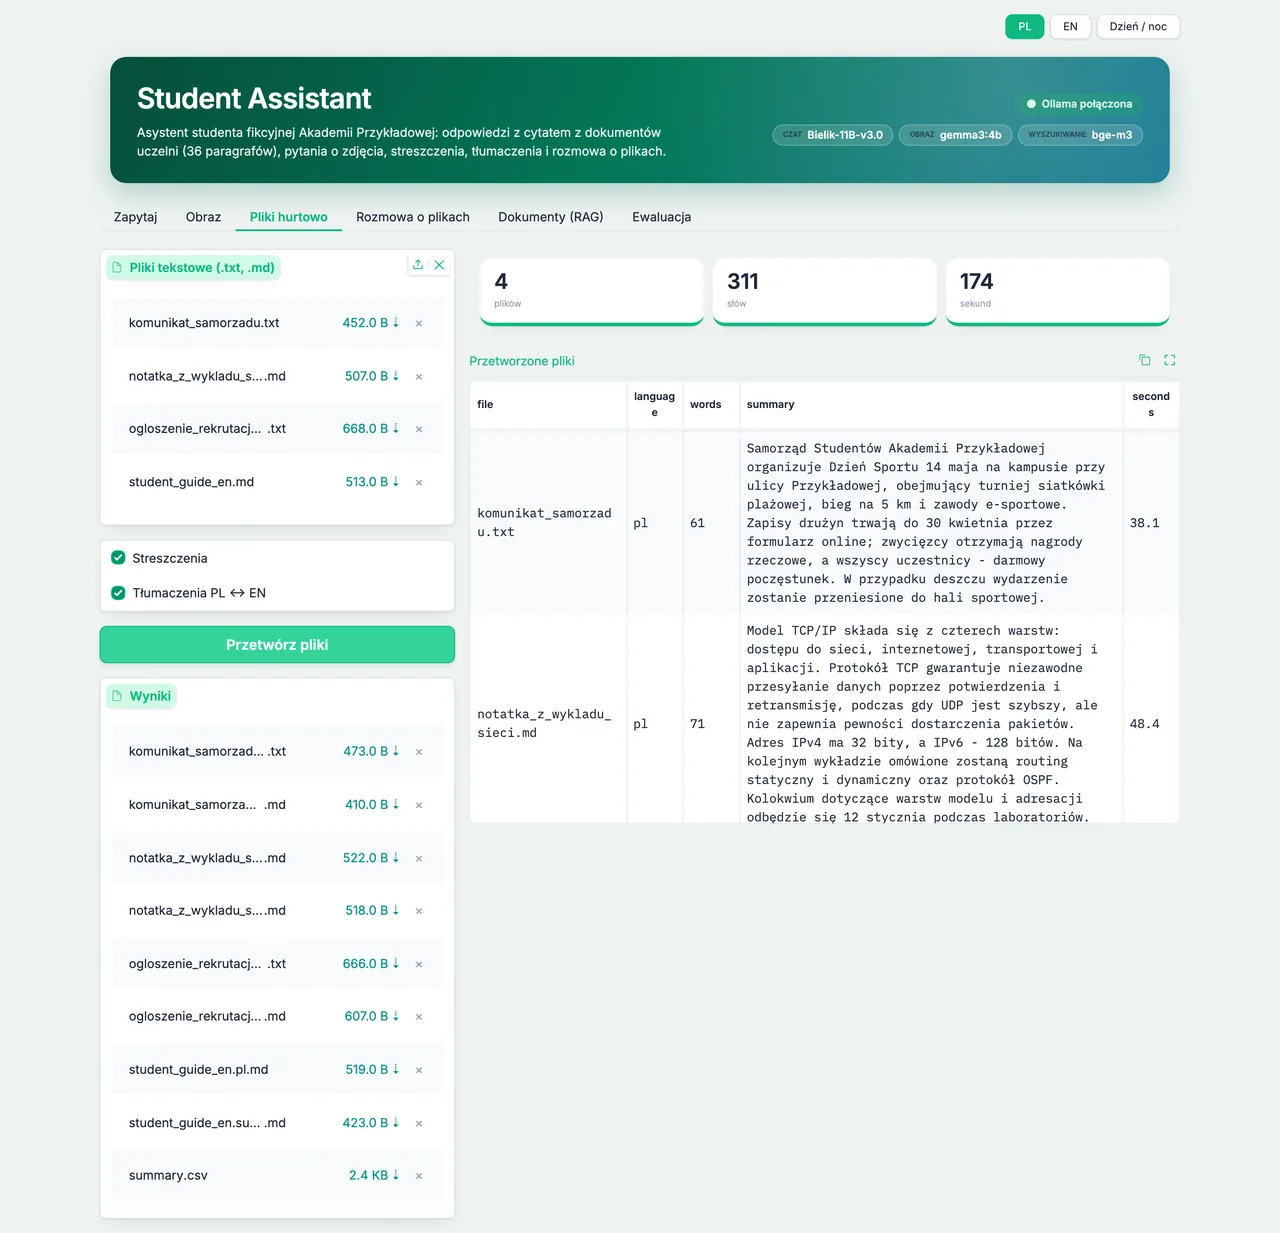
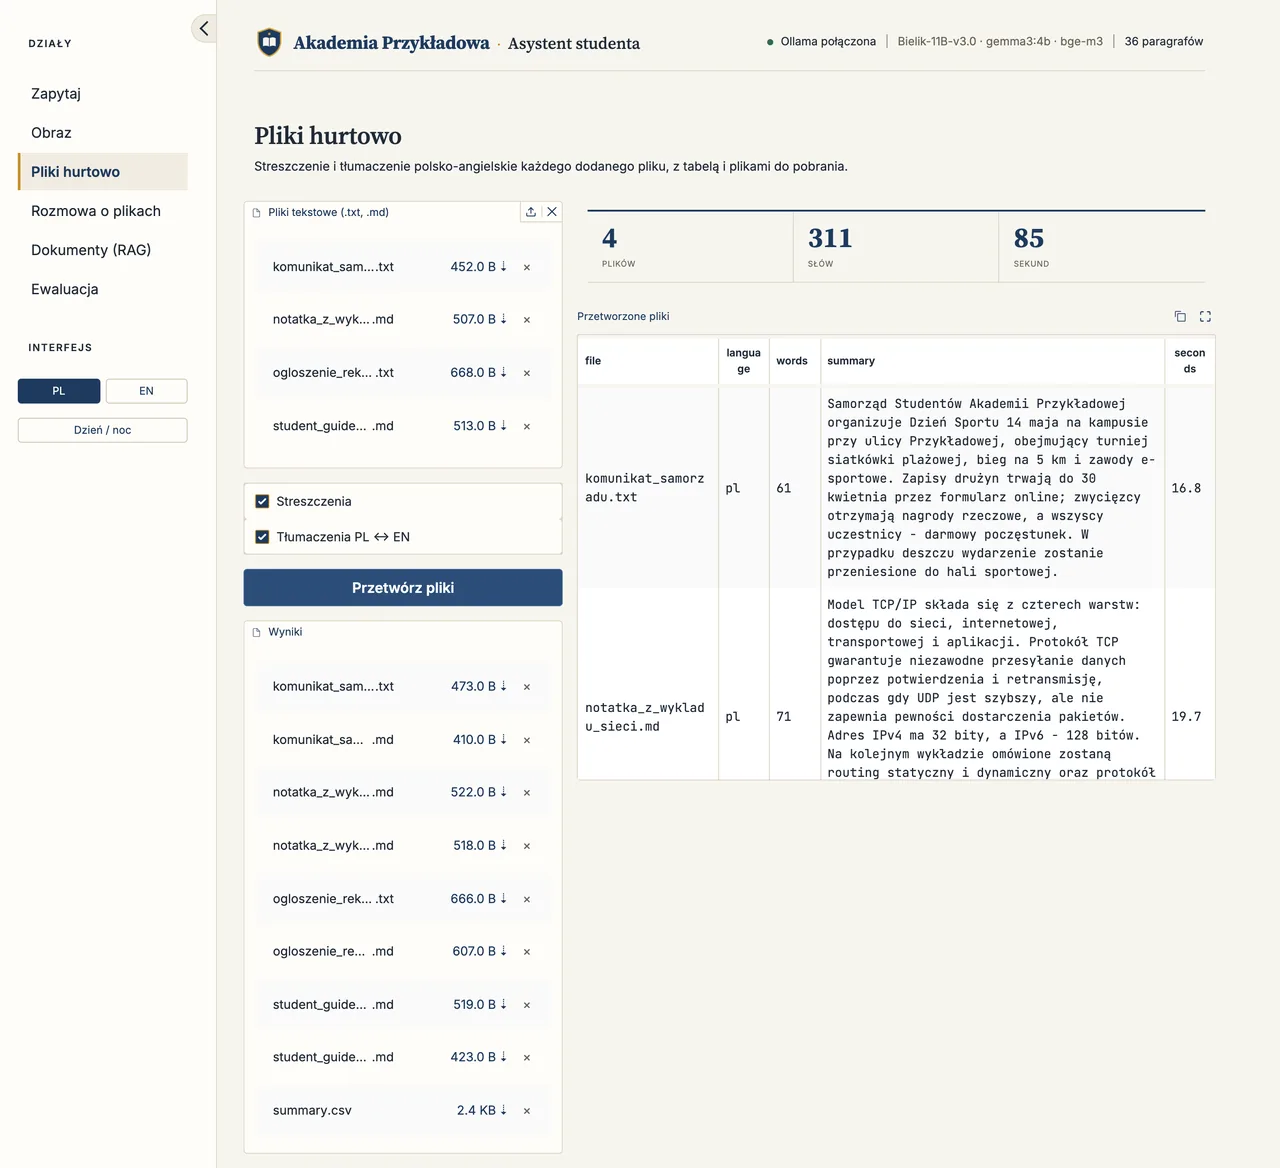
feat(projects): new screenshots of the redesigned Student Assistant LLM and Marketing Creator LLM

diff --git a/projects/marketing-creator-llm/index.html b/projects/marketing-creator-llm/index.html
@@ -119,32 +119,32 @@
         <ul class="gallery">
           <li>
             <a class="gallery__link" href="/src/assets/img/work/marketing-creator-llm/shot-1.webp" data-index="0">
-              <img src="/src/assets/img/work/marketing-creator-llm/shot-1.webp" alt="Marketing Creator LLM, screenshot 1" width="1280" height="997" loading="lazy" decoding="async" />
+              <img src="/src/assets/img/work/marketing-creator-llm/shot-1.webp" alt="Marketing Creator LLM, screenshot 1" width="1280" height="1202" loading="lazy" decoding="async" />
             </a>
           </li>
           <li>
             <a class="gallery__link" href="/src/assets/img/work/marketing-creator-llm/shot-2.webp" data-index="1">
-              <img src="/src/assets/img/work/marketing-creator-llm/shot-2.webp" alt="Marketing Creator LLM, screenshot 2" width="1280" height="955" loading="lazy" decoding="async" />
+              <img src="/src/assets/img/work/marketing-creator-llm/shot-2.webp" alt="Marketing Creator LLM, screenshot 2" width="1280" height="1132" loading="lazy" decoding="async" />
             </a>
           </li>
           <li>
             <a class="gallery__link" href="/src/assets/img/work/marketing-creator-llm/shot-3.webp" data-index="2">
-              <img src="/src/assets/img/work/marketing-creator-llm/shot-3.webp" alt="Marketing Creator LLM, screenshot 3" width="1280" height="1516" loading="lazy" decoding="async" />
+              <img src="/src/assets/img/work/marketing-creator-llm/shot-3.webp" alt="Marketing Creator LLM, screenshot 3" width="1280" height="1578" loading="lazy" decoding="async" />
             </a>
           </li>
           <li>
             <a class="gallery__link" href="/src/assets/img/work/marketing-creator-llm/shot-4.webp" data-index="3">
-              <img src="/src/assets/img/work/marketing-creator-llm/shot-4.webp" alt="Marketing Creator LLM, screenshot 4" width="1280" height="1021" loading="lazy" decoding="async" />
+              <img src="/src/assets/img/work/marketing-creator-llm/shot-4.webp" alt="Marketing Creator LLM, screenshot 4" width="1280" height="1028" loading="lazy" decoding="async" />
             </a>
           </li>
           <li>
             <a class="gallery__link" href="/src/assets/img/work/marketing-creator-llm/shot-5.webp" data-index="4">
-              <img src="/src/assets/img/work/marketing-creator-llm/shot-5.webp" alt="Marketing Creator LLM, screenshot 5" width="1280" height="1276" loading="lazy" decoding="async" />
+              <img src="/src/assets/img/work/marketing-creator-llm/shot-5.webp" alt="Marketing Creator LLM, screenshot 5" width="1280" height="1351" loading="lazy" decoding="async" />
             </a>
           </li>
           <li>
             <a class="gallery__link" href="/src/assets/img/work/marketing-creator-llm/shot-6.webp" data-index="5">
-              <img src="/src/assets/img/work/marketing-creator-llm/shot-6.webp" alt="Marketing Creator LLM, screenshot 6" width="1280" height="800" loading="lazy" decoding="async" />
+              <img src="/src/assets/img/work/marketing-creator-llm/shot-6.webp" alt="Marketing Creator LLM, screenshot 6" width="1280" height="1202" loading="lazy" decoding="async" />
             </a>
           </li>
         </ul>

diff --git a/projects/student-assistant-llm/index.html b/projects/student-assistant-llm/index.html
@@ -119,7 +119,7 @@
         <ul class="gallery">
           <li>
             <a class="gallery__link" href="/src/assets/img/work/student-assistant-llm/shot-1.webp" data-index="0">
-              <img src="/src/assets/img/work/student-assistant-llm/shot-1.webp" alt="Student Assistant LLM, screenshot 1" width="1280" height="800" loading="lazy" decoding="async" />
+              <img src="/src/assets/img/work/student-assistant-llm/shot-1.webp" alt="Student Assistant LLM, screenshot 1" width="1280" height="1051" loading="lazy" decoding="async" />
             </a>
           </li>
           <li>
@@ -129,12 +129,12 @@
           </li>
           <li>
             <a class="gallery__link" href="/src/assets/img/work/student-assistant-llm/shot-3.webp" data-index="2">
-              <img src="/src/assets/img/work/student-assistant-llm/shot-3.webp" alt="Student Assistant LLM, screenshot 3" width="1280" height="1233" loading="lazy" decoding="async" />
+              <img src="/src/assets/img/work/student-assistant-llm/shot-3.webp" alt="Student Assistant LLM, screenshot 3" width="1280" height="1168" loading="lazy" decoding="async" />
             </a>
           </li>
           <li>
             <a class="gallery__link" href="/src/assets/img/work/student-assistant-llm/shot-4.webp" data-index="3">
-              <img src="/src/assets/img/work/student-assistant-llm/shot-4.webp" alt="Student Assistant LLM, screenshot 4" width="1280" height="932" loading="lazy" decoding="async" />
+              <img src="/src/assets/img/work/student-assistant-llm/shot-4.webp" alt="Student Assistant LLM, screenshot 4" width="1280" height="889" loading="lazy" decoding="async" />
             </a>
           </li>
           <li>
@@ -144,7 +144,12 @@
           </li>
           <li>
             <a class="gallery__link" href="/src/assets/img/work/student-assistant-llm/shot-6.webp" data-index="5">
-              <img src="/src/assets/img/work/student-assistant-llm/shot-6.webp" alt="Student Assistant LLM, screenshot 6" width="1280" height="1028" loading="lazy" decoding="async" />
+              <img src="/src/assets/img/work/student-assistant-llm/shot-6.webp" alt="Student Assistant LLM, screenshot 6" width="1280" height="979" loading="lazy" decoding="async" />
+            </a>
+          </li>
+          <li>
+            <a class="gallery__link" href="/src/assets/img/work/student-assistant-llm/shot-7.webp" data-index="6">
+              <img src="/src/assets/img/work/student-assistant-llm/shot-7.webp" alt="Student Assistant LLM, screenshot 7" width="1280" height="1051" loading="lazy" decoding="async" />
             </a>
           </li>
         </ul>
